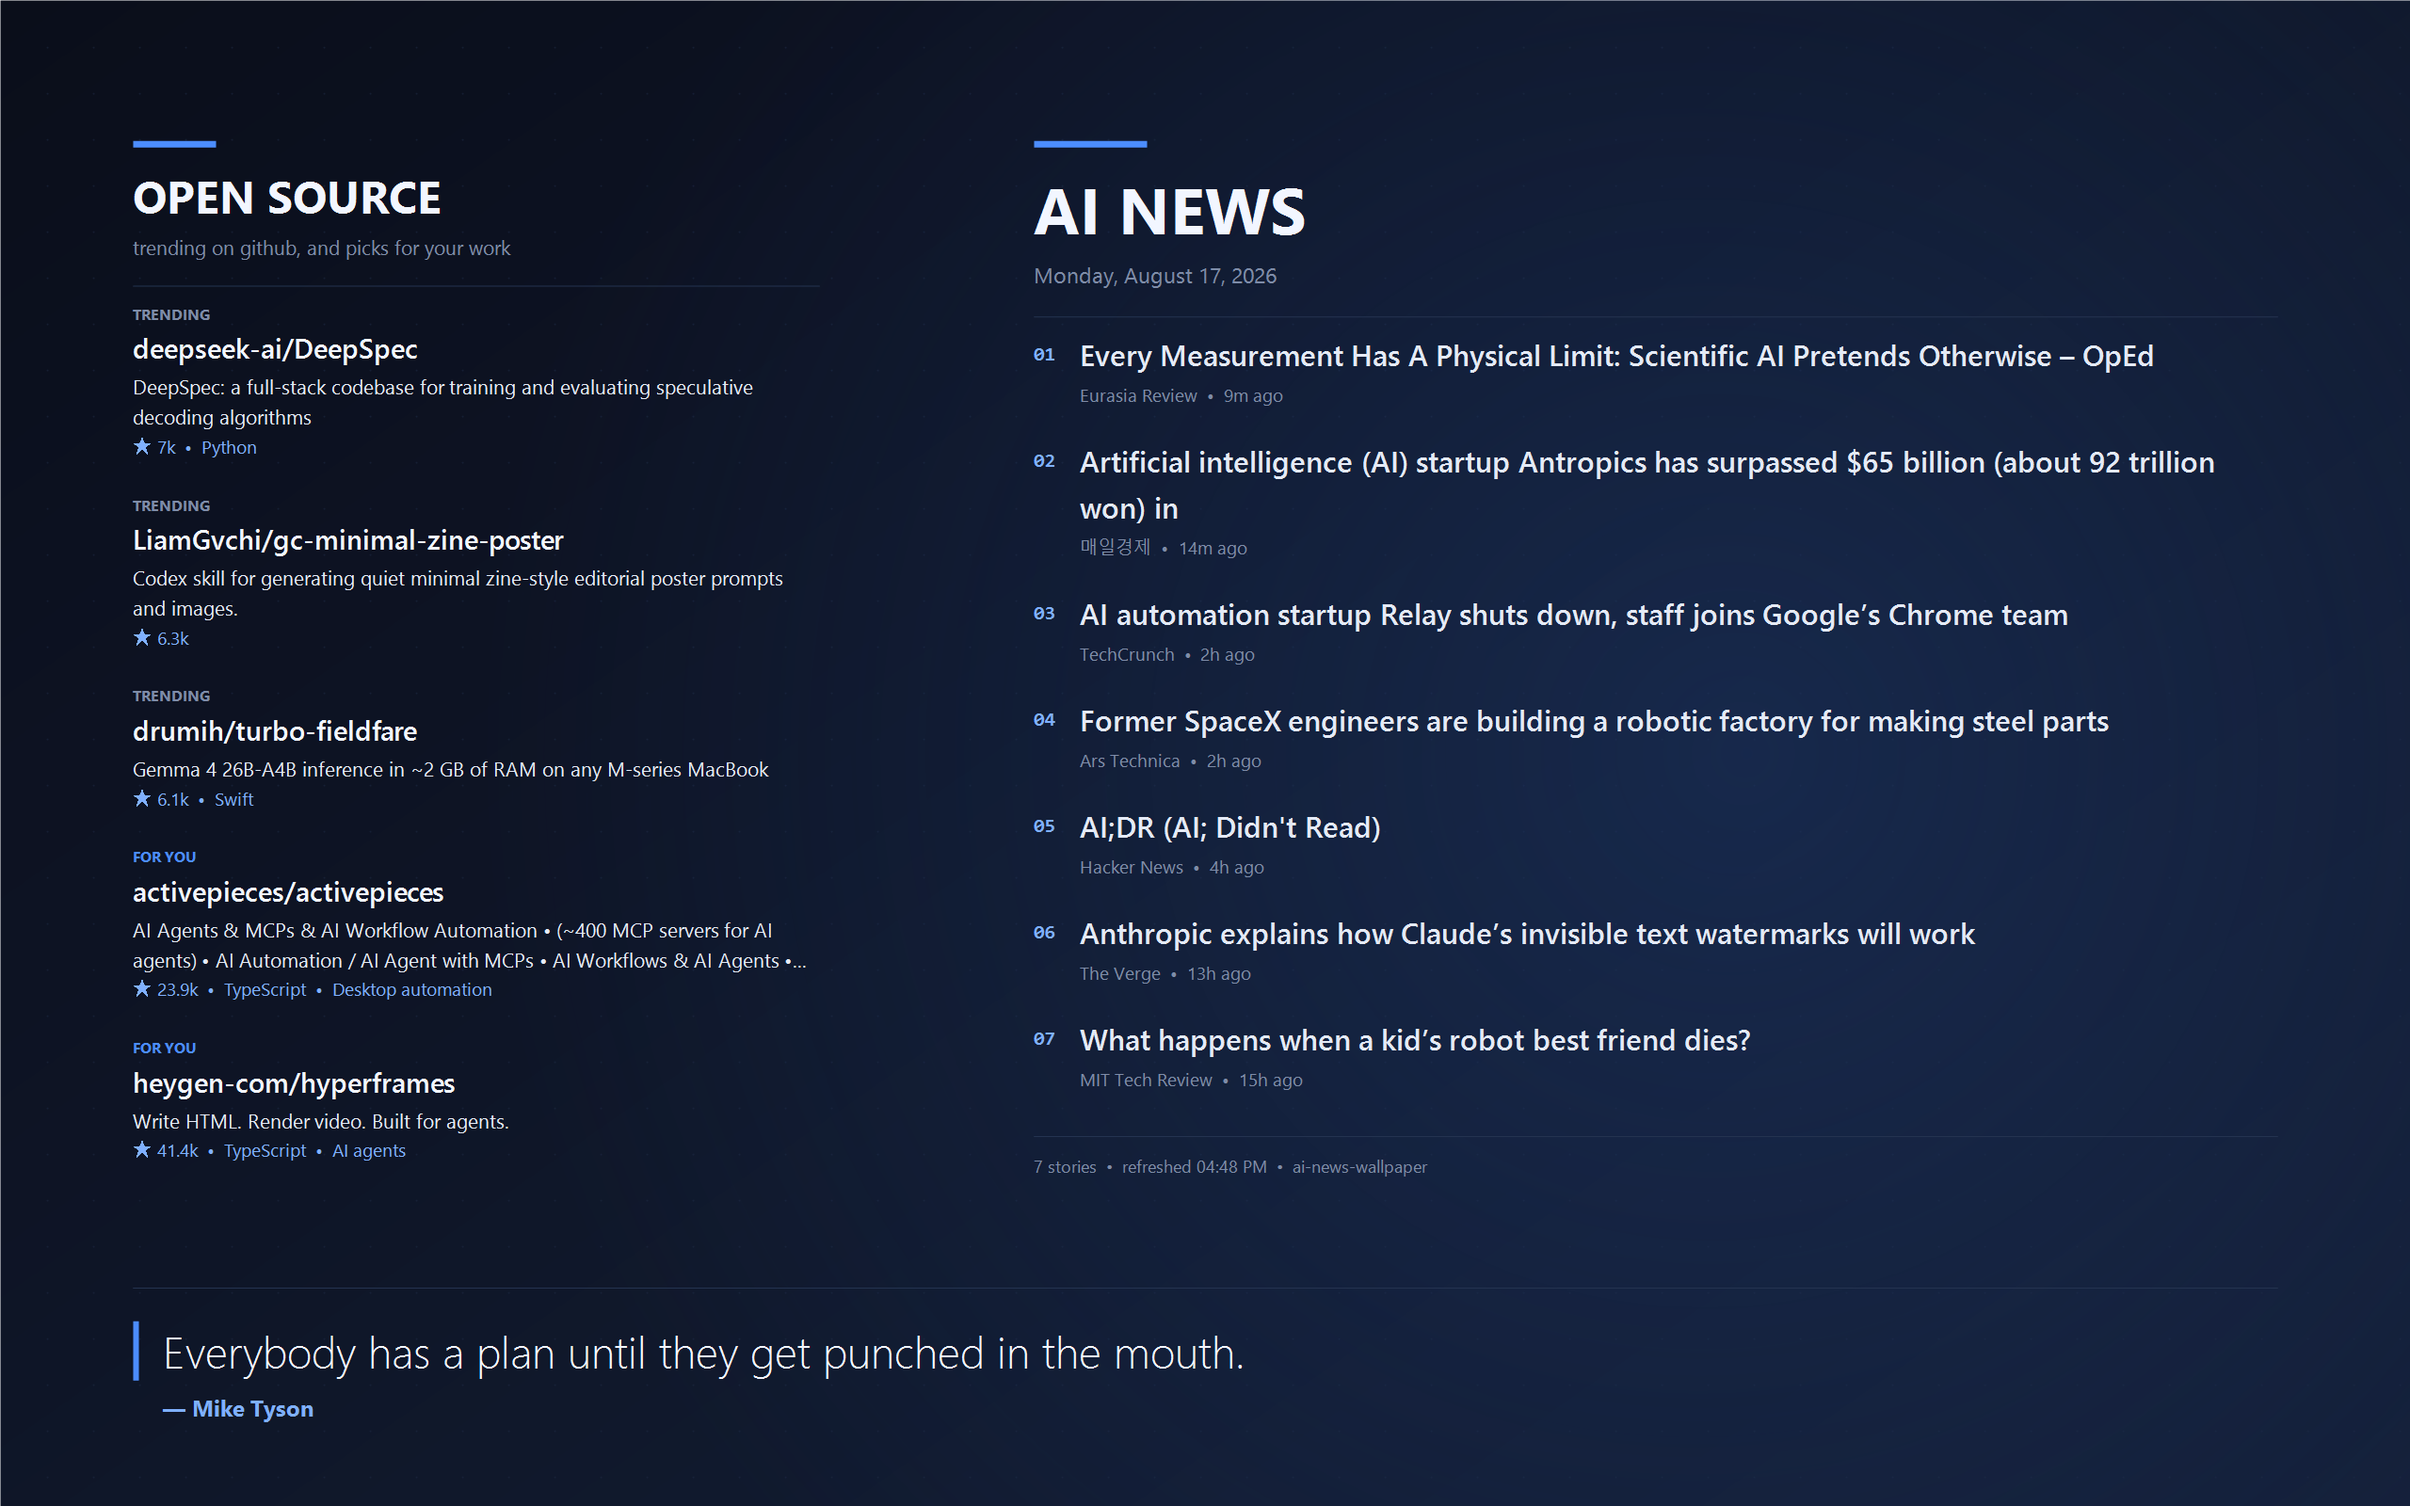
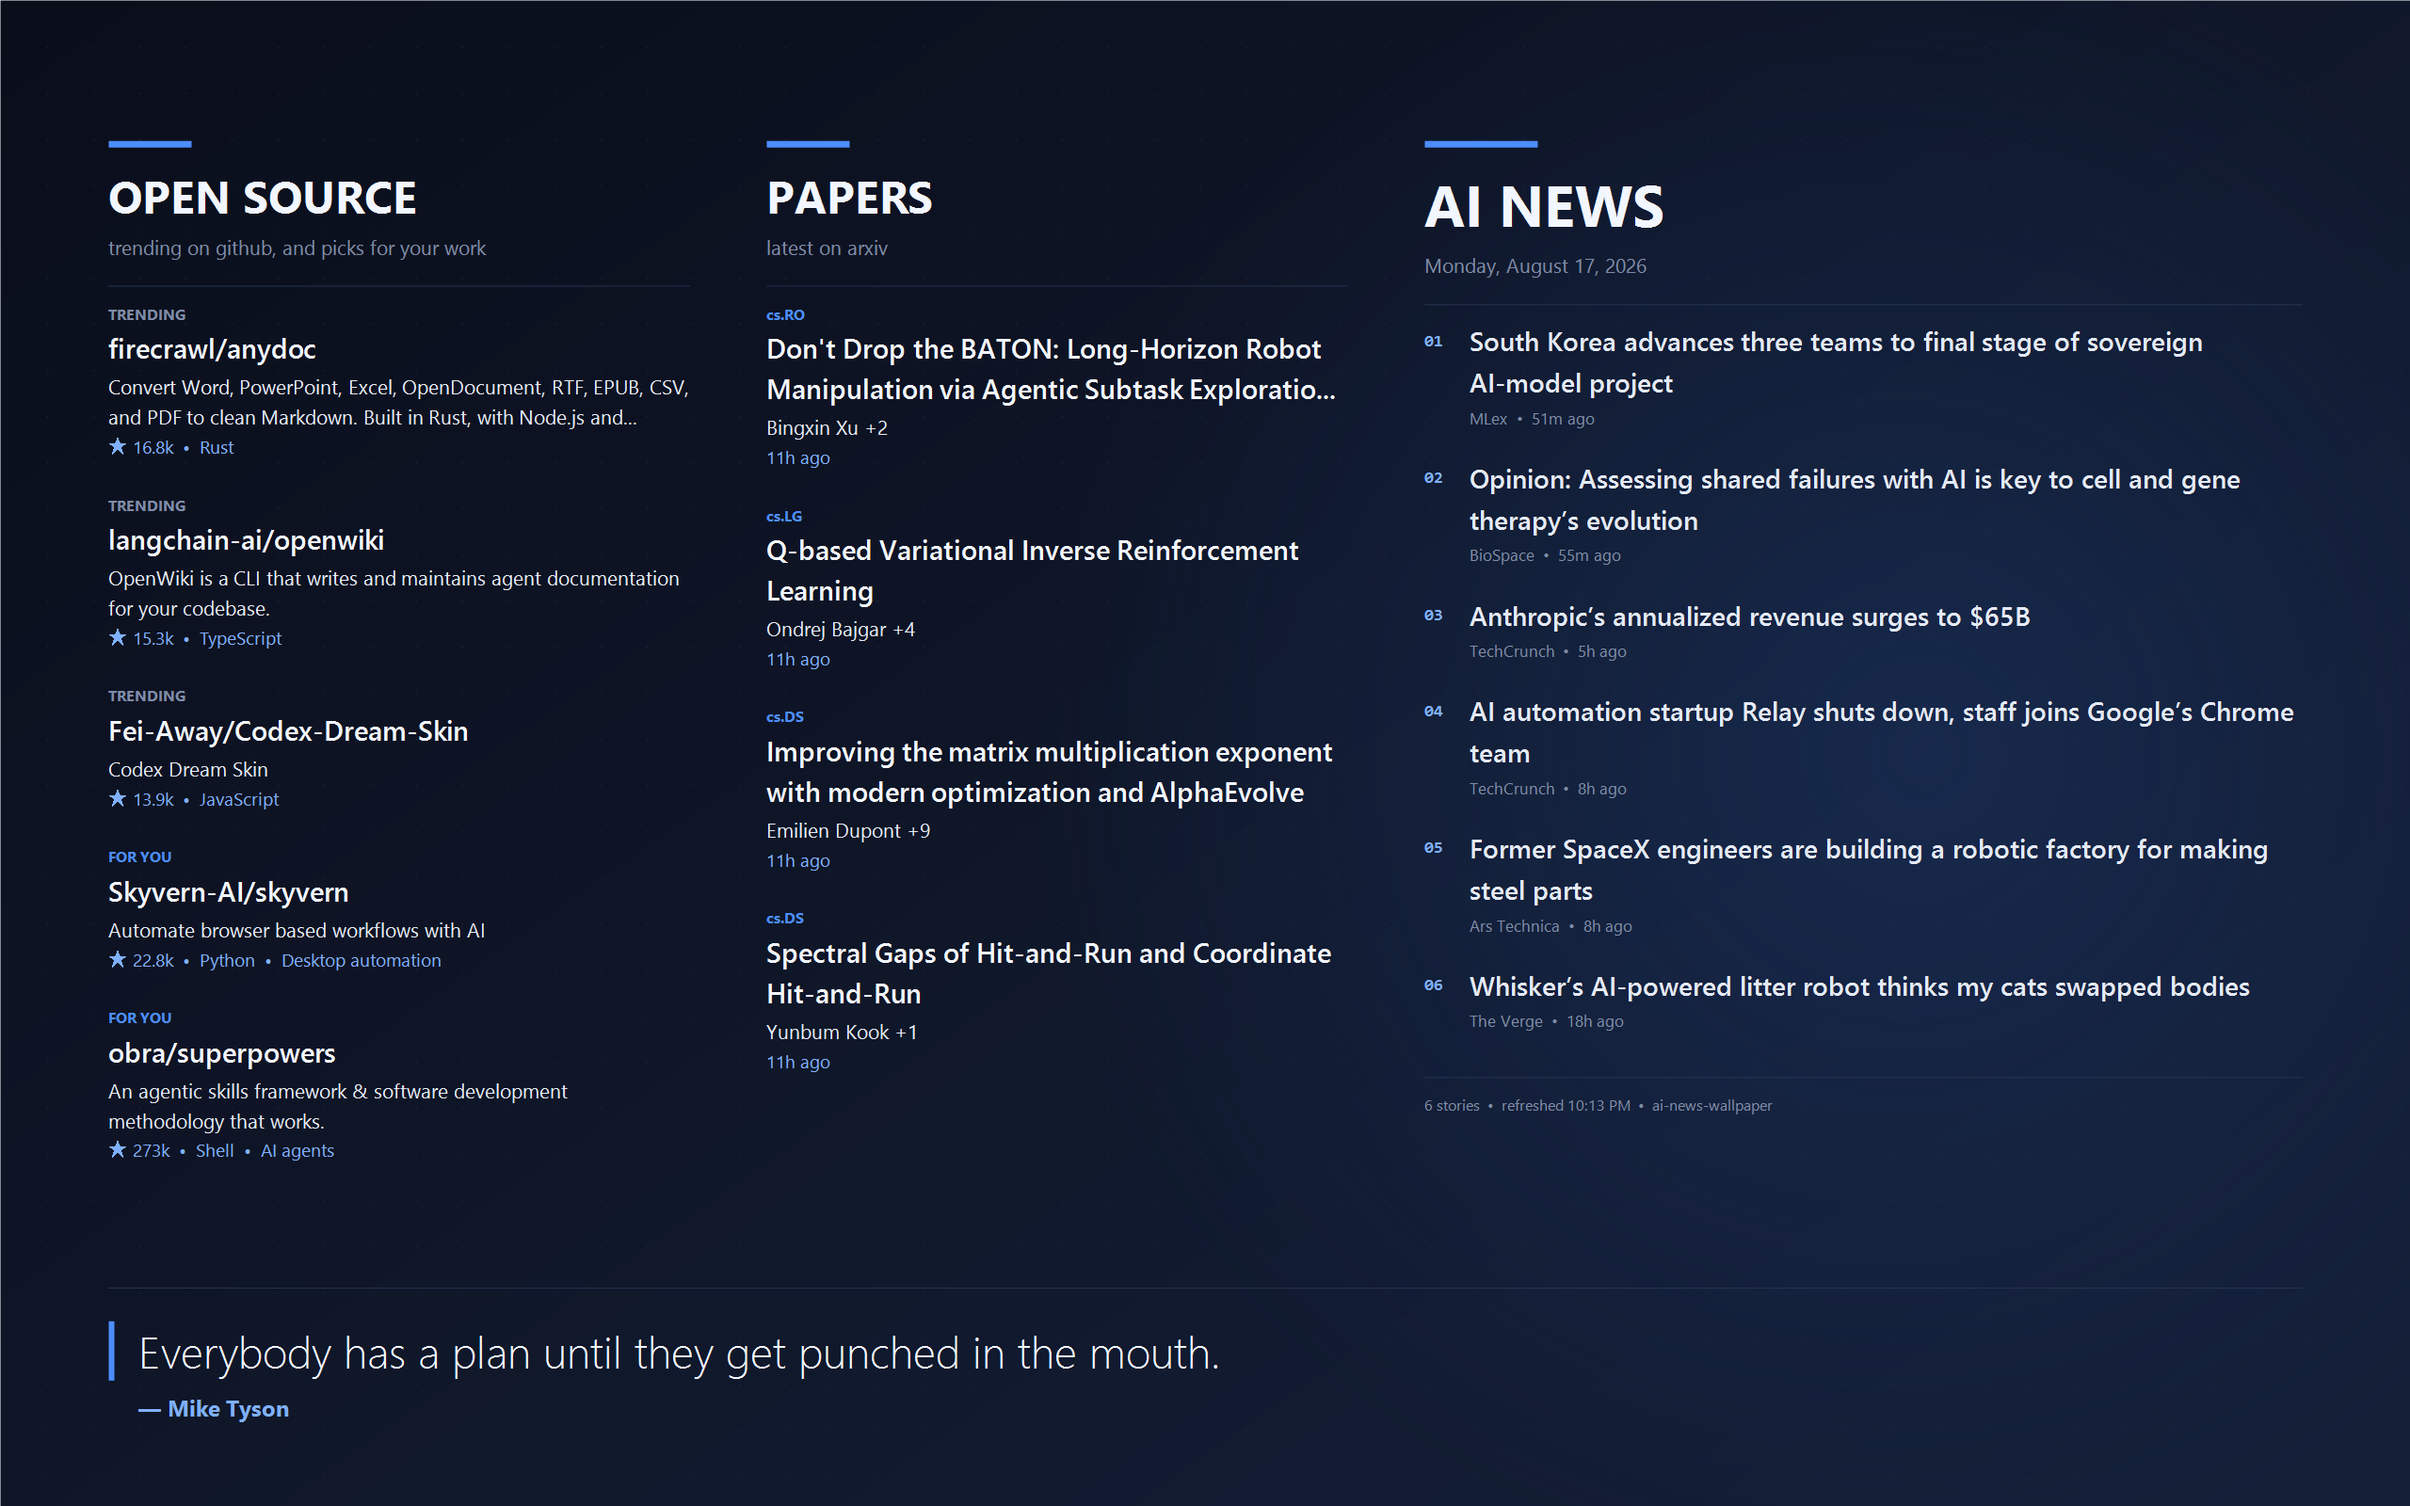
Use side-by-side panels from 1800px, and honour --width/--height
1920x1080 is the most common desktop resolution and it sat just under the
2000px threshold for column layout, so it fell back to stacking the panels down
one side. At that width the fit engine had to shrink the type to 73% and drop
entries: three repos and two papers instead of five and four. Lowering the
threshold to 1800 gives those screens full-size type and the complete set.

Also fixes --width/--height, which the help documents as forcing the canvas
size but which the detected monitor size silently overrode - so the flags did
nothing on a machine with a display attached.

Screenshot refreshed: the old one predated the PAPERS panel.

diff --git a/src/index.js b/src/index.js
@@ -144,8 +144,10 @@ async function refresh(overrides = {}, options = {}) {
       ...options,
       // Applying is a separate step so multi-monitor can target each display.
       setWallpaper: false,
-      width: entry.monitor.width || config.width,
-      height: entry.monitor.height || config.height,
+      // An explicit --width/--height wins: it is documented as forcing the
+      // canvas size, so the detected monitor must not override it.
+      width: config.width || entry.monitor.width,
+      height: config.height || entry.monitor.height,
       panels: content.panels,
       // One quote across the desktop, on the primary screen only.
       quote: entry.index === 0 ? quote : null,
